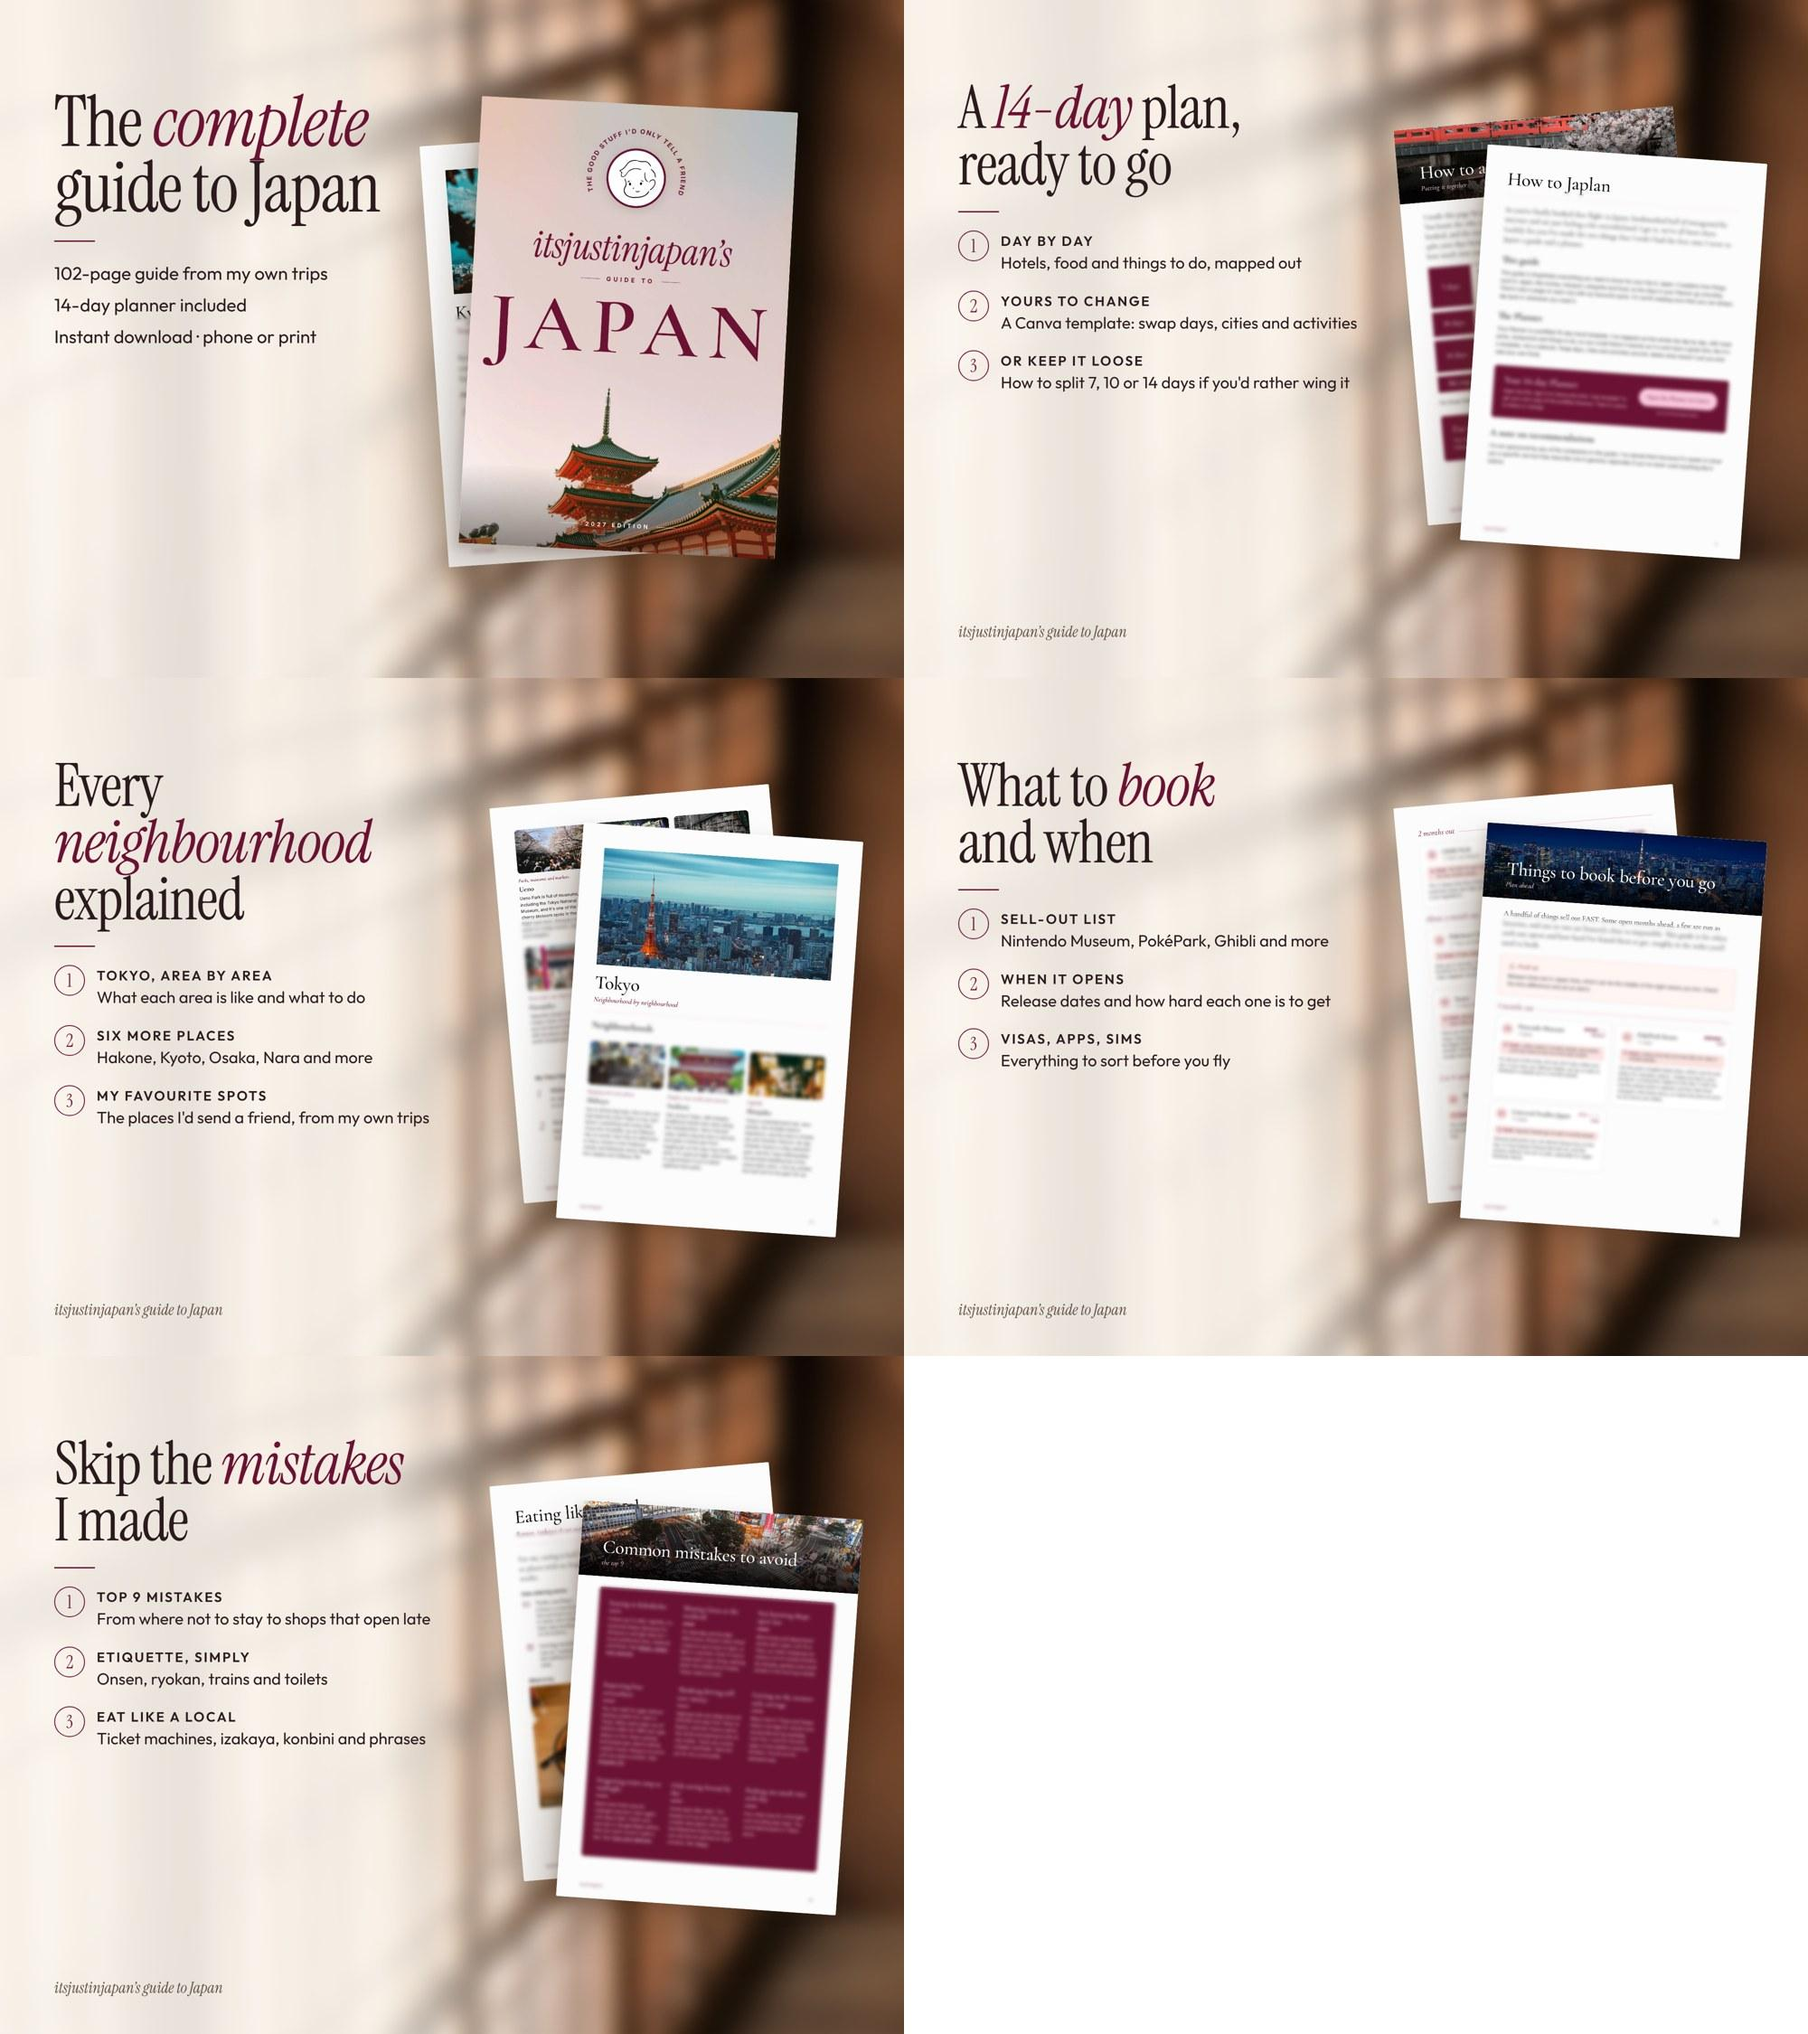
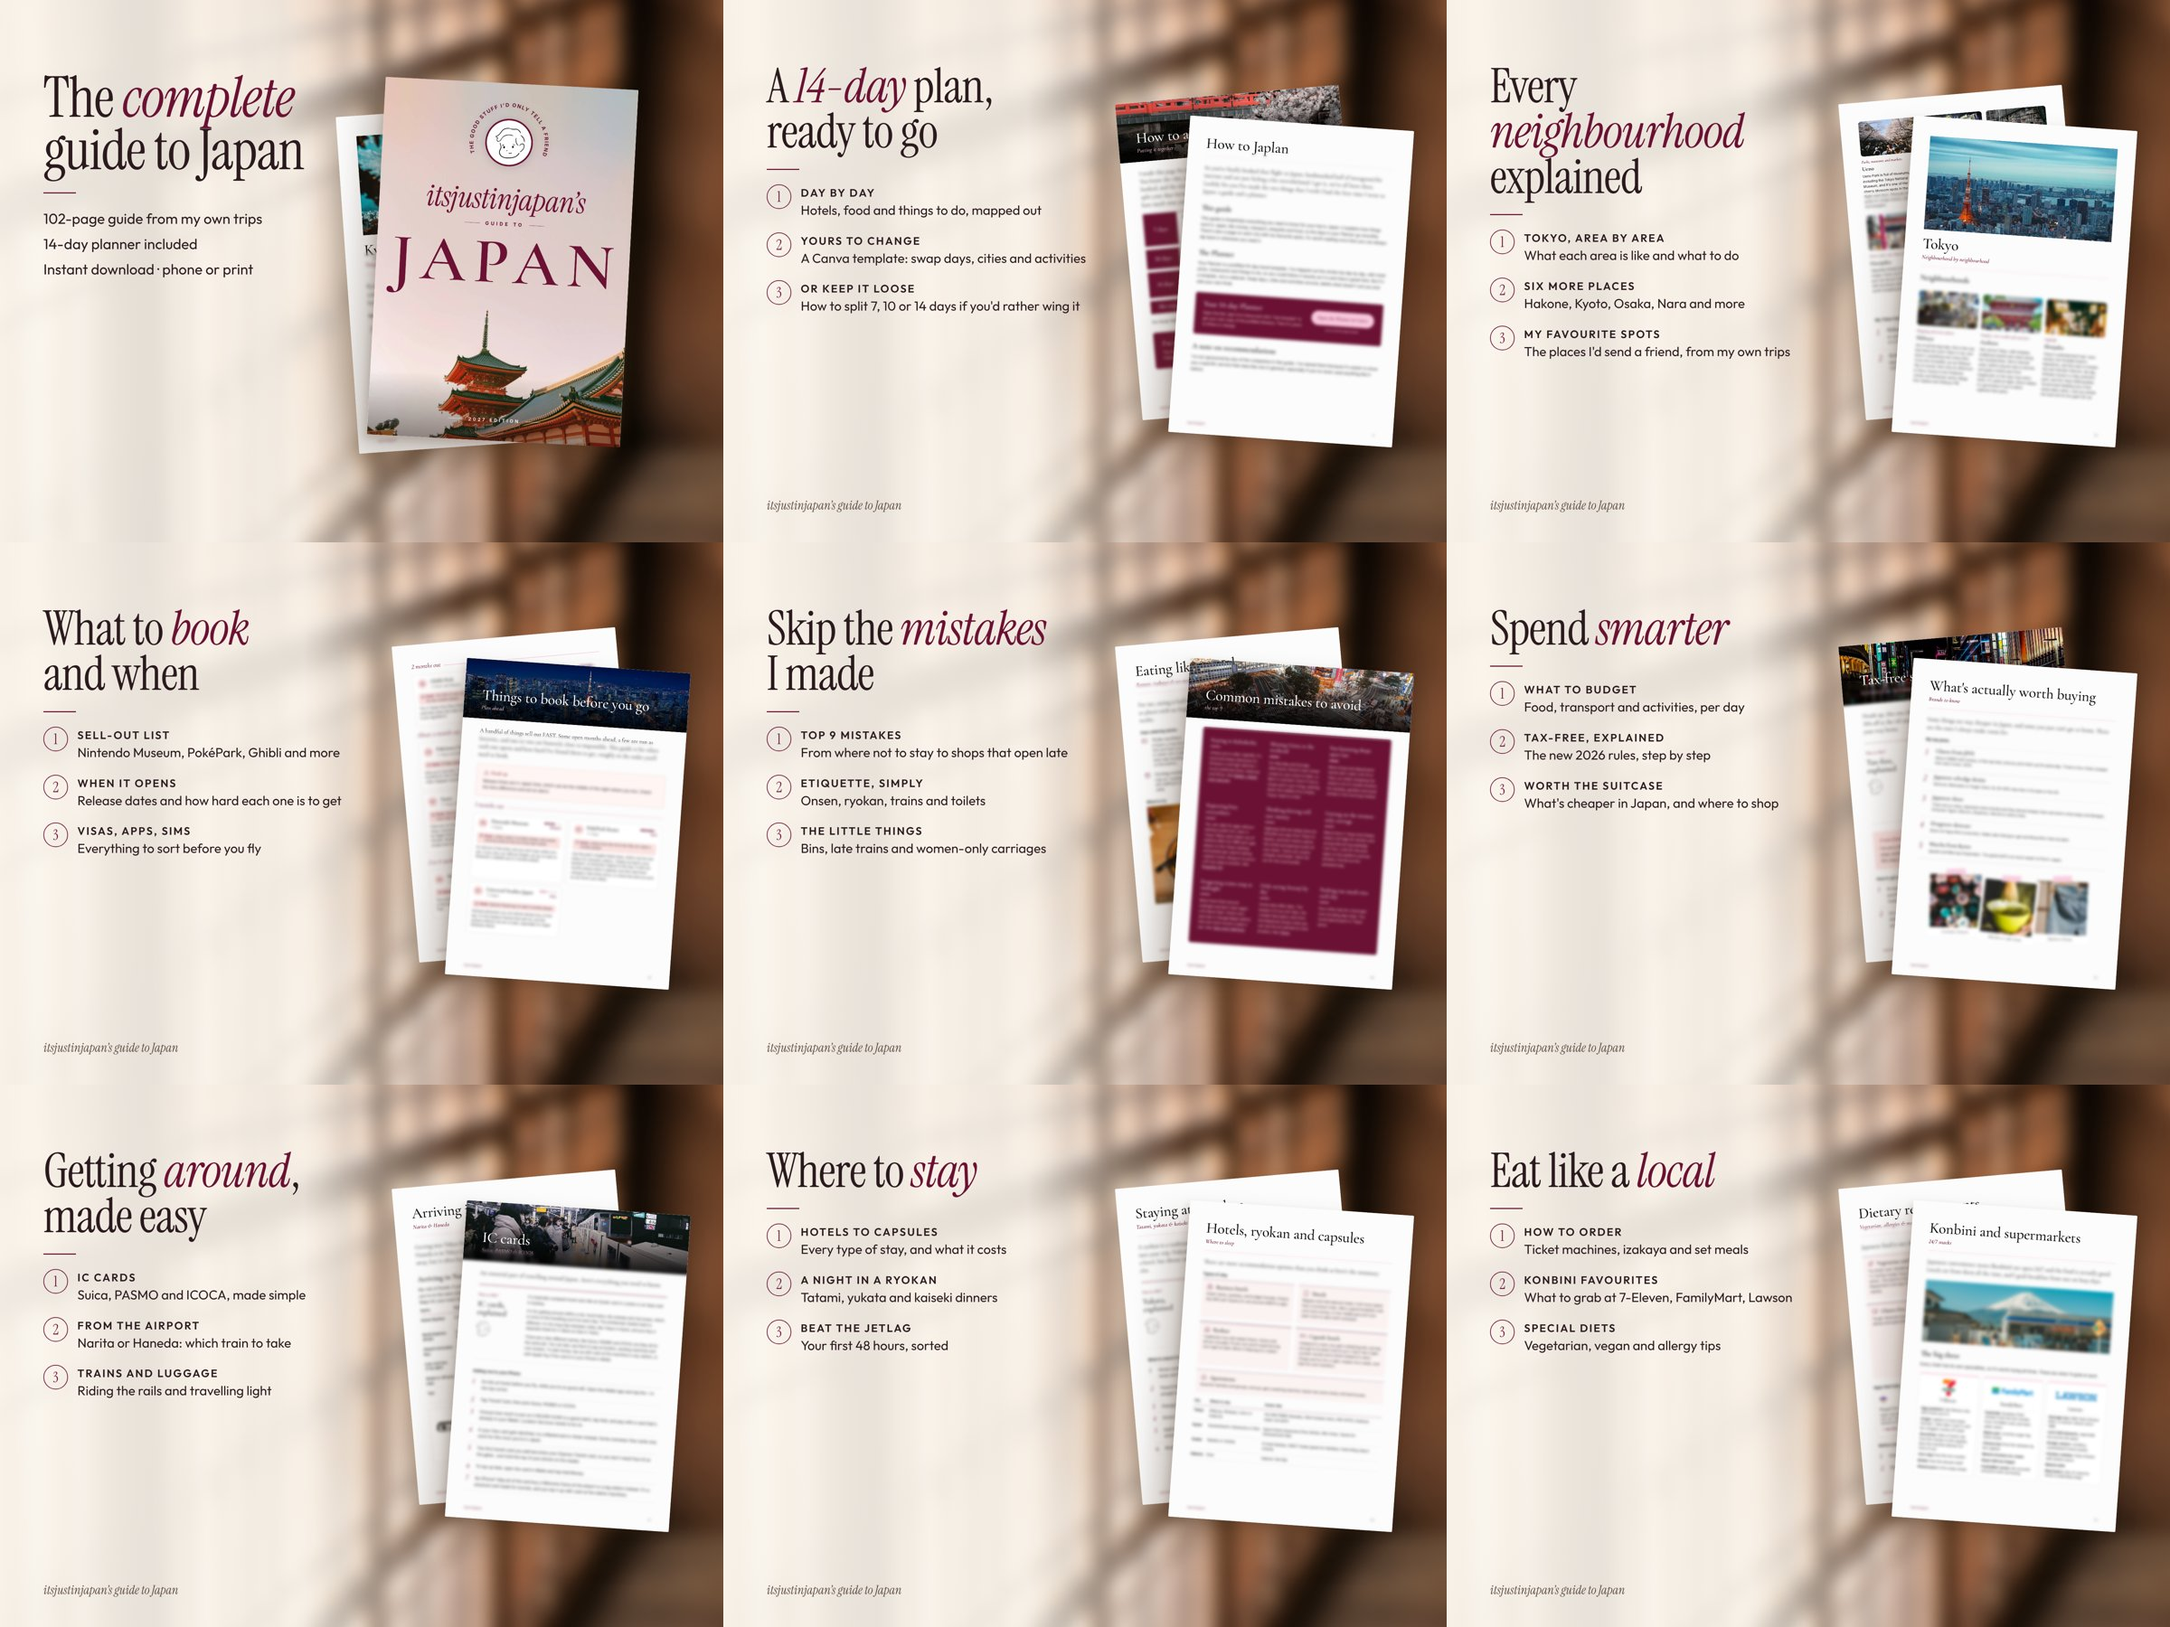
Listing images: 4 more features (money, transport, stay, food)
Claude-Session: https://claude.ai/code/session_01Ki5uwK1E6UNvwVLzA4yviP

diff --git a/listing-images/src/feat.py b/listing-images/src/feat.py
@@ -18,8 +18,28 @@ F = {
  "05-mistakes": dict(kicker="Practical stuff", title="Skip the <em>mistakes</em><br>I made",
    pts=[("Top 9 mistakes","From where not to stay to shops that open late"),
         ("Etiquette, simply","Onsen, ryokan, trains and toilets"),
-        ("Eat like a local","Ticket machines, izakaya, konbini and phrases")],
+        ("The little things","Bins, late trains and women-only carriages")],
    pages=["p95-095-b.png","p68-068-b.png"]),
+ "06-money": dict(kicker="", title="Spend <em>smarter</em>",
+   pts=[("What to budget","Food, transport and activities, per day"),
+        ("Tax-free, explained","The new 2026 rules, step by step"),
+        ("Worth the suitcase","What's cheaper in Japan, and where to shop")],
+   pages=["p32-032-b.png","p26-026-b.png"]),
+ "07-transport": dict(kicker="", title="Getting <em>around</em>,<br>made easy",
+   pts=[("IC cards","Suica, PASMO and ICOCA, made simple"),
+        ("From the airport","Narita or Haneda: which train to take"),
+        ("Trains and luggage","Riding the rails and travelling light")],
+   pages=["p41-041-b.png","p45-045-b.png"]),
+ "08-stay": dict(kicker="", title="Where to <em>stay</em>",
+   pts=[("Hotels to capsules","Every type of stay, and what it costs"),
+        ("A night in a ryokan","Tatami, yukata and kaiseki dinners"),
+        ("Beat the jetlag","Your first 48 hours, sorted")],
+   pages=["p53-053-b.png","p63-063-b.png"]),
+ "09-food": dict(kicker="", title="Eat like a <em>local</em>",
+   pts=[("How to order","Ticket machines, izakaya and set meals"),
+        ("Konbini favourites","What to grab at 7-Eleven, FamilyMart, Lawson"),
+        ("Special diets","Vegetarian, vegan and allergy tips")],
+   pages=["p70-070-b.png","p72-072-b.png"]),
 }
 CSS = open("feat.css").read()
 for name, f in F.items():

diff --git a/listing-images/README.md b/listing-images/README.md
@@ -10,7 +10,7 @@ Build: edit `src/*.html` (pages come from japan-the-complete-guide.pdf via `pdft
 `node src/shot.cjs $PWD/src/heroA.html out.png` (hero.html is the rejected v1).
 
 Feature images (calm look + feature-led, like the reference): `python3 src/feat.py` writes 02–05 HTML; render each with shot.cjs.
-Done: 01 hero · 02 planner · 03 neighbourhoods · 04 what to book · 05 mistakes. Still to do: 06 proof (reviews) · 07 what you get.
+Done: 01 hero · 02 planner · 03 neighbourhoods · 04 what to book · 05 mistakes · 06 money · 07 getting around · 08 where to stay · 09 food. Still to do: proof (reviews) · what you get.
 05 the Canva planner · 06 tips you only learn the hard way · 07 proof (5,000+ travellers, reviews) · 08 what you get.
 
 Background options (blurred Japanese photos, Unsplash): shoji = De An Sun, tatami = Yosuke Ota, kyoto = Fabrizio Chiagano. See options/.
